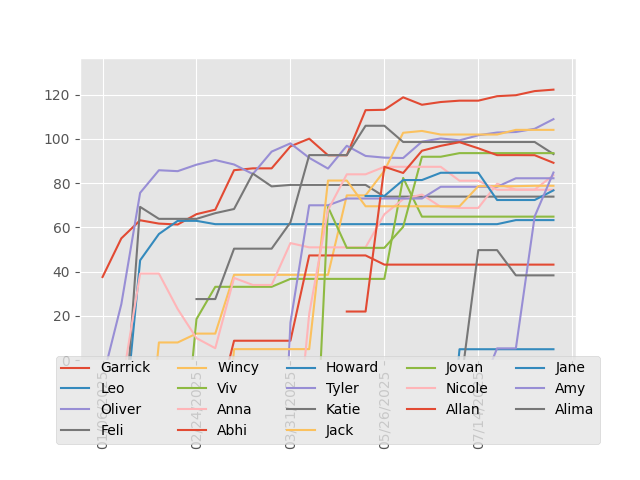
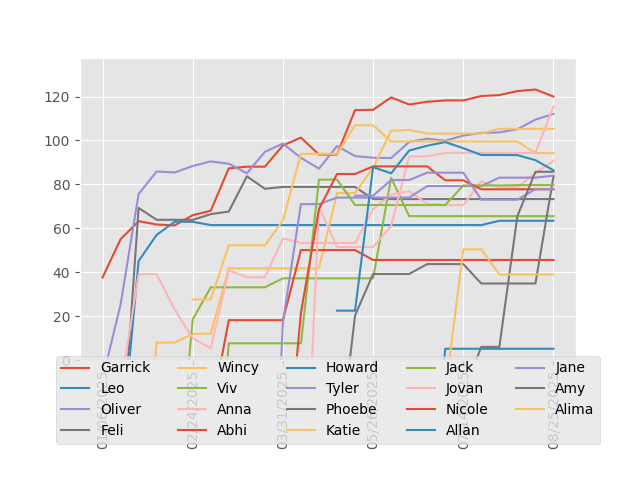
update rankings

diff --git a/parse_results.py b/parse_results.py
@@ -19,6 +19,7 @@ LUCK_FACTORS = {
     "Shifty Eyed Spies": 10.0,
     "Cash n Guns": 10.0,
     "Bang": 1.0,
+    "Crabs": 1.0,
     "Carcassone": 10.0,
     "Coup": 10.0,
     "Masquerade": 10.0,
@@ -26,6 +27,7 @@ LUCK_FACTORS = {
     "Here to Slay": 10.0,
     "Monopoly Deal": 10.0,
     "Dixit": 10.0,
+    "Night of the Ninja": 10.0,
 }
 
 

diff --git a/README.md b/README.md
@@ -6,61 +6,59 @@
 
 | Player | ELO | Wins | Losses | Win % |
 | --- | --- | --- | --- | --- |
-| Garrick | 122.32 | 40 | 35 | 53% |
-| Oliver | 108.97 | 44 | 48 | 48% |
-| Rachel | 105.13 | 3 | 2 | 60% |
-| Wincy | 104.12 | 14 | 13 | 52% |
-| Jovan | 93.60 | 4 | 7 | 36% |
-| Katie | 93.18 | 13 | 13 | 50% |
-| Allan | 89.22 | 8 | 21 | 28% |
-| Amy | 84.82 | 6 | 9 | 40% |
-| Anna | 83.63 | 21 | 23 | 48% |
-| Nicole(Tyler) | 83.48 | 3 | 2 | 60% |
-| Tyler | 82.22 | 7 | 8 | 47% |
-| Heidi | 81.85 | 2 | 5 | 29% |
-| Jack | 78.82 | 6 | 15 | 29% |
-| Nicole | 77.00 | 9 | 16 | 36% |
-| Jane | 76.75 | 4 | 12 | 25% |
-| Feli | 73.91 | 8 | 20 | 29% |
+| Garrick | 120.01 | 41 | 36 | 53% |
+| Jovan | 115.41 | 5 | 7 | 42% |
+| Oliver | 112.07 | 45 | 49 | 48% |
+| Rachel | 105.59 | 3 | 2 | 60% |
+| Wincy | 105.31 | 14 | 13 | 52% |
+| Tara | 97.92 | 2 | 7 | 22% |
+| Katie | 94.26 | 13 | 13 | 50% |
+| Anna | 90.74 | 22 | 23 | 49% |
+| Allan | 86.42 | 8 | 24 | 25% |
+| Amy | 85.73 | 6 | 9 | 40% |
+| Tyler | 83.97 | 7 | 9 | 44% |
+| Nicole(Tyler) | 83.91 | 3 | 2 | 60% |
+| Phoebe | 83.46 | 3 | 7 | 30% |
+| Heidi | 82.89 | 2 | 5 | 29% |
+| Jack | 79.66 | 6 | 15 | 29% |
+| Jane | 77.80 | 4 | 12 | 25% |
+| Nicole | 77.76 | 9 | 16 | 36% |
+| Feli | 73.30 | 8 | 20 | 29% |
+| Ruby | 69.31 | 2 | 3 | 40% |
 | Serene | 69.04 | 1 | 3 | 25% |
-| Ruby | 68.69 | 2 | 3 | 40% |
-| Susan | 67.83 | 2 | 4 | 33% |
-| Viv | 64.86 | 9 | 7 | 56% |
-| Leo | 63.30 | 7 | 13 | 35% |
-| Tara | 58.42 | 2 | 5 | 29% |
-| Peter | 54.00 | 3 | 6 | 33% |
-| Kristy | 52.60 | 2 | 5 | 29% |
-| Narin | 50.70 | 3 | 5 | 38% |
-| Vittoria | 47.04 | 3 | 6 | 33% |
-| Lil Su | 44.00 | 0 | 2 | 0% |
-| Abhi | 43.15 | 6 | 10 | 38% |
-| Angela(Oliver) | 39.45 | 1 | 1 | 50% |
-| Alima | 38.30 | 2 | 8 | 20% |
-| Jacky(Feli) | 35.70 | 3 | 1 | 75% |
-| Phoebe | 34.33 | 2 | 6 | 25% |
-| Vivian | 32.28 | 3 | 0 | 100% |
-| Angelica(Feli) | 25.09 | 2 | 1 | 67% |
-| Summer | 22.12 | 3 | 2 | 60% |
-| Kuki | 21.31 | 0 | 5 | 0% |
-| Kristy(Kristy) | 21.25 | 0 | 1 | 0% |
-| Bonnie | 18.99 | 1 | 2 | 33% |
-| Allen | 17.42 | 0 | 1 | 0% |
-| Babs | 17.24 | 3 | 1 | 75% |
-| Simon | 7.72 | 0 | 1 | 0% |
-| Howard | 4.87 | 5 | 5 | 50% |
-| Amber(Summer) | -8.88 | 0 | 1 | 0% |
-| Kristy(Katie) | -11.56 | 0 | 4 | 0% |
-| Jordan | -24.65 | 2 | 1 | 67% |
+| Susan | 67.45 | 2 | 4 | 33% |
+| Viv | 65.54 | 9 | 7 | 56% |
+| Leo | 63.41 | 7 | 13 | 35% |
+| Peter | 54.49 | 3 | 6 | 33% |
+| Kristy | 53.19 | 2 | 5 | 29% |
+| Narin | 51.36 | 3 | 5 | 38% |
+| Jacky(Feli) | 47.38 | 3 | 1 | 75% |
+| Vittoria | 47.33 | 3 | 6 | 33% |
+| Abhi | 45.57 | 6 | 10 | 38% |
+| Lil Su | 44.61 | 0 | 2 | 0% |
+| Angela(Oliver) | 39.28 | 1 | 1 | 50% |
+| Alima | 38.94 | 2 | 8 | 20% |
+| Vivian | 33.83 | 3 | 0 | 100% |
+| Kristy(Katie) | 27.45 | 0 | 5 | 0% |
+| Angelica(Feli) | 25.27 | 2 | 1 | 67% |
+| Summer | 22.96 | 3 | 2 | 60% |
+| Kuki | 22.28 | 0 | 5 | 0% |
+| Bonnie | 20.25 | 1 | 2 | 33% |
+| Babs | 17.96 | 3 | 1 | 75% |
+| Simon | 7.99 | 0 | 1 | 0% |
+| Howard | 5.12 | 5 | 5 | 50% |
+| Amber(Summer) | -8.16 | 0 | 1 | 0% |
+| Jordan | -23.71 | 2 | 1 | 67% |
 | Karen | -33.11 | 2 | 2 | 50% |
-| Gloria | -56.41 | 1 | 1 | 50% |
+| Gloria | -56.23 | 1 | 1 | 50% |
+| Harsha | -63.62 | 3 | 5 | 38% |
 | David(Aus) | -64.75 | 1 | 2 | 33% |
 | Kevin(Aus) | -64.75 | 1 | 2 | 33% |
 | Freya | -70.13 | 0 | 2 | 0% |
 | Mandy | -70.69 | 2 | 2 | 50% |
-| Harsha | -74.28 | 3 | 5 | 38% |
 | Eric | -92.49 | 0 | 4 | 0% |
-| Myron | -93.04 | 1 | 2 | 33% |
-| Jonathan(Oliver) | -104.07 | 1 | 1 | 50% |
+| Myron | -93.39 | 1 | 2 | 33% |
+| Jonathan(Oliver) | -104.12 | 1 | 1 | 50% |
 | Michael | -112.81 | 0 | 3 | 0% |
 | LeoPan | -134.86 | 1 | 2 | 33% |
 
@@ -229,7 +227,7 @@
 | Ruby | -20.76 | 0 | 1 | 0% |
 | Susan | -24.89 | 0 | 1 | 0% |
 | Katie | -24.89 | 0 | 1 | 0% |
-| Kristy(Kristy) | -24.89 | 0 | 1 | 0% |
+| Kristy(Katie) | -24.89 | 0 | 1 | 0% |
 | Serene | -30.17 | 0 | 1 | 0% |
 | Leo | -30.17 | 0 | 1 | 0% |
 | Kristy | -32.67 | 0 | 1 | 0% |
@@ -317,7 +315,7 @@
 | Tara | 18.46 | 0 | 1 | 0% |
 | Anna | 4.10 | 0 | 1 | 0% |
 | Lil Su | 4.10 | 0 | 1 | 0% |
-| Allen | -14.04 | 0 | 1 | 0% |
+| Allan | -14.04 | 0 | 1 | 0% |
 | Katie | -46.33 | 0 | 2 | 0% |
 | Jane | -46.50 | 0 | 1 | 0% |
 | Amy | -82.96 | 0 | 1 | 0% |
@@ -405,3 +403,28 @@
 | Allan | -69.88 | 0 | 1 | 0% |
 | Summer | -69.88 | 0 | 1 | 0% |
 | Amber(Summer) | -69.88 | 0 | 1 | 0% |
+
+
+### Crabs
+
+| Player | ELO | Wins | Losses | Win % |
+| --- | --- | --- | --- | --- |
+| Jovan | -16.77 | 1 | 0 | 100% |
+| Phoebe | -16.77 | 1 | 0 | 100% |
+| Oliver | -70.41 | 0 | 1 | 0% |
+| Tara | -70.41 | 0 | 1 | 0% |
+| Allan | -136.37 | 0 | 1 | 0% |
+| Garrick | -136.37 | 0 | 1 | 0% |
+
+
+### Night of the Ninja
+
+| Player | ELO | Wins | Losses | Win % |
+| --- | --- | --- | --- | --- |
+| Anna | 9.55 | 1 | 0 | 100% |
+| Garrick | 9.55 | 1 | 0 | 100% |
+| Oliver | 9.55 | 1 | 0 | 100% |
+| Tyler | -40.91 | 0 | 1 | 0% |
+| Phoebe | -40.91 | 0 | 1 | 0% |
+| Tara | -40.91 | 0 | 1 | 0% |
+| Allan | -40.91 | 0 | 1 | 0% |
